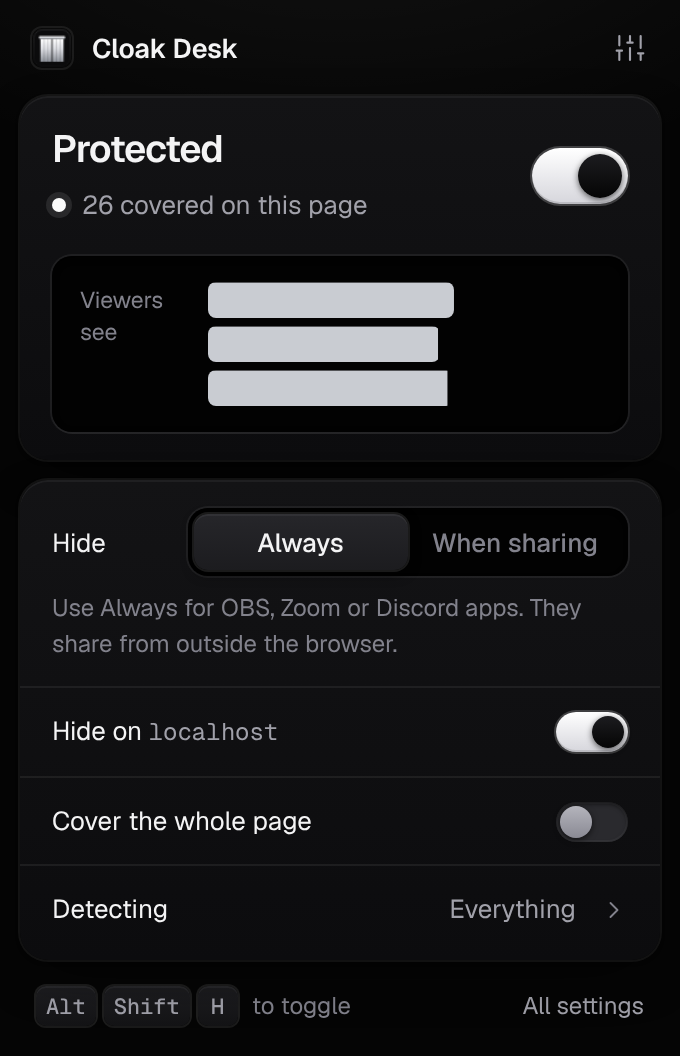
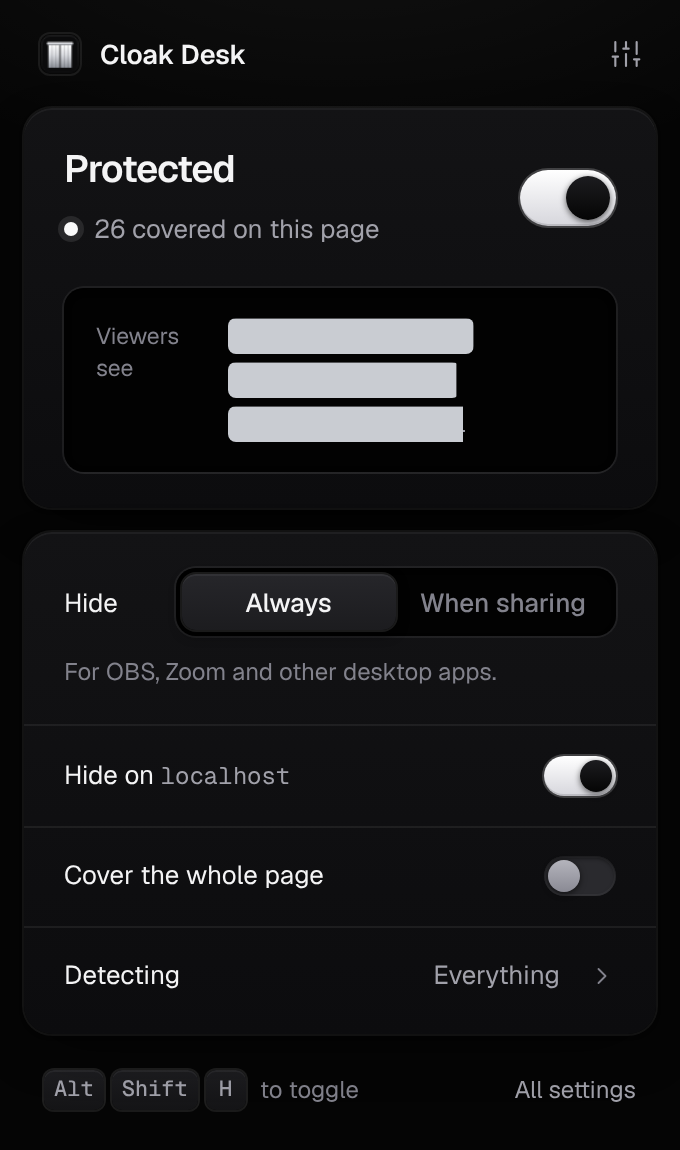
Browser extension: stacked first-run panel, one-line detection rows
The side-by-side first-run layout squeezed the heading onto three lines and let the
secondary button overlap the preview; it now stacks heading, sentence, a full-width
"Viewers see" strip and the buttons. Detection examples are capped in width so every
row stays on one line, with the cover's rounded ends visible.

Claude-Session: https://claude.ai/code/session_01G5HeYjBbz7PchrqV62yzy5

diff --git a/chromium/extension/src/options/options.html b/chromium/extension/src/options/options.html
@@ -33,18 +33,18 @@
           <div class="welcome-text">
             <h1>Hide what viewers shouldn't see</h1>
             <p>Covers emails, phone numbers, cards, IDs and API keys on every page while you share your screen. You see the covers too.</p>
+            <div class="well welcome-viewer" id="welcomeViewer" aria-label="Preview of what viewers see">
+              <span class="viewer-label">Viewers see</span>
+              <span class="sample">raktim.yoddha@gmail.com<i class="cover"></i></span>
+              <span class="sample">+91 98765 43210<i class="cover"></i></span>
+              <span class="sample">4111 1111 1111 1111<i class="cover"></i></span>
+              <span class="sample">ghp_8fK2xQ9mVt7Lr1ZsP0<i class="cover"></i></span>
+            </div>
             <div class="actions">
               <button class="btn btn-primary" id="welcomeEnable">Turn on protection</button>
               <a class="btn btn-quiet" href="#appearance">See an example</a>
             </div>
             <p class="hint">Pin it from the puzzle icon in the toolbar.</p>
-          </div>
-          <div class="well welcome-viewer" id="welcomeViewer" aria-label="Preview of what viewers see">
-            <span class="viewer-label">Viewers see</span>
-            <span class="sample">raktim.yoddha@gmail.com<i class="cover"></i></span>
-            <span class="sample">+91 98765 43210<i class="cover"></i></span>
-            <span class="sample">4111 1111 1111 1111<i class="cover"></i></span>
-            <span class="sample">ghp_8fK2xQ9mVt7Lr1ZsP0<i class="cover"></i></span>
           </div>
         </section>
 
@@ -97,7 +97,7 @@
           <h2>Your words</h2>
           <p class="lead">Names, addresses, anything personal. Any letter case.</p>
           <div class="tags" id="wordsTags"><input id="wordsInput" placeholder="Add a word or phrase, then press Enter" autocomplete="off" spellcheck="false" aria-label="Add a word or phrase" /></div>
-          <p class="hint">Or select text on a page, right-click, Always hide.</p>
+          <p class="hint">Or right-click selected text and choose Always hide.</p>
           <details class="disclosure">
             <summary>Patterns</summary>
             <div class="tags" id="patternsTags"><input id="patternsInput" placeholder="/EMP-\d{5}/" autocomplete="off" spellcheck="false" aria-label="Add a pattern" /></div>

diff --git a/chromium/extension/src/options/options.css b/chromium/extension/src/options/options.css
@@ -201,8 +201,14 @@ h3 {
 
 .row .sample {
   flex: none;
+  max-width: 160px;
+  overflow: hidden;
   font-size: 11.5px;
   color: var(--fg-3);
+}
+
+.row .sample .cover {
+  inset: 1px 0; /* stays inside the clipped example, so its rounded ends show */
 }
 
 /* radio rows */
@@ -487,12 +493,8 @@ code {
 /* ---------- first run ---------- */
 
 .welcome {
-  display: grid;
-  grid-template-columns: minmax(0, 1fr) 270px;
-  gap: 40px;
-  align-items: center;
   margin-bottom: 104px;
-  padding: 40px 36px 36px;
+  padding: 40px 40px 36px;
 }
 
 .welcome p {
@@ -518,14 +520,16 @@ code {
 }
 
 .welcome-viewer {
-  display: grid;
-  justify-items: start;
-  gap: 4px;
-  padding: 16px 18px 18px;
+  display: flex;
+  flex-wrap: wrap;
+  align-items: center;
+  gap: 8px 22px;
+  margin-top: 28px;
+  padding: 16px 20px;
 }
 
 .welcome-viewer .viewer-label {
-  margin-bottom: 4px;
+  width: 100%;
   color: var(--fg-3);
   font-size: 11.5px;
 }
@@ -568,10 +572,6 @@ code {
 
   .main {
     padding: 32px 16px 80px;
-  }
-
-  .welcome {
-    grid-template-columns: 1fr;
   }
 
   .form-demo {
